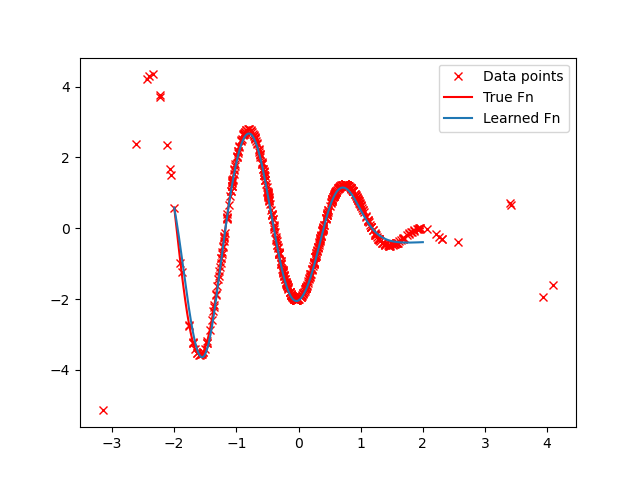
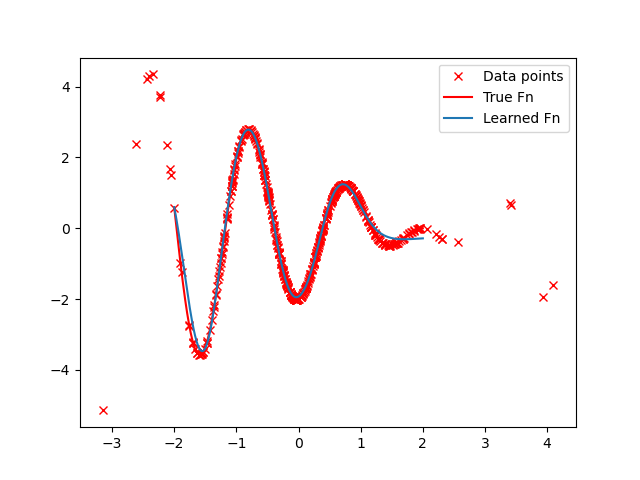
update

diff --git a/HW3/threelayerSGD.py b/HW3/threelayerSGD.py
@@ -18,19 +18,17 @@ N = 512
 def f_true(x) :
     return (x-2) * np.cos(x*4)
 
-def sig(x) :
-    return 1/(1+np.exp(-x))
-
 torch.manual_seed(0)
 X_train = torch.normal(0.0, 1.0, (N,))
 # P1
-# y_train = f_true(X_train)
+y_train = f_true(X_train)
 # P2
-y_train = f_true(X_train) + torch.normal(0, 0.5, X_train.shape)
+y_train_ = f_true(X_train) + torch.normal(0, 0.5, X_train.shape)
 X_val = torch.normal(0.0, 1.0, (N//5,))
 y_val = f_true(X_val)
 
-train_dataloader = DataLoader(TensorDataset(X_train.unsqueeze(1), y_train.unsqueeze(1)), batch_size=B)
+train_dataloader = DataLoader(TensorDataset(X_train.unsqueeze(1), y_train.unsqueeze(1)), batch_size=B, shuffle=True)
+train_dataloader_ = DataLoader(TensorDataset(X_train.unsqueeze(1), y_train_.unsqueeze(1)), batch_size=B, shuffle=True)
 test_dataloader = DataLoader(TensorDataset(X_val.unsqueeze(1), y_val.unsqueeze(1)), batch_size=B)
 
 '''
@@ -61,12 +59,6 @@ class MLP(nn.Module):
         x = self.layer3(x) # B*1
         return x
 
-def cal(tens):
-    a = list(tens.shape)
-    b = 1
-    for k in a:
-        b *= k
-    return b
 # Model initialization
 model = MLP()
 model.layer1.weight.data = torch.normal(0, 1, model.layer1.weight.shape)
@@ -75,34 +67,56 @@ model.layer2.weight.data = torch.normal(0, 1, model.layer2.weight.shape)
 model.layer2.bias.data = torch.full(model.layer2.bias.shape, 0.03)
 model.layer3.weight.data = torch.normal(0, 1, model.layer3.weight.shape)
 model.layer3.bias.data = torch.full(model.layer3.bias.shape, 0.03)
+model_ = MLP()
+model_.layer1.weight.data = torch.normal(0, 1, model_.layer1.weight.shape)
+model_.layer1.bias.data = torch.full(model_.layer1.bias.shape, 0.03)
+model_.layer2.weight.data = torch.normal(0, 1, model_.layer2.weight.shape)
+model_.layer2.bias.data = torch.full(model_.layer2.bias.shape, 0.03)
+model_.layer3.weight.data = torch.normal(0, 1, model_.layer3.weight.shape)
+model_.layer3.bias.data = torch.full(model_.layer3.bias.shape, 0.03)
 
-# model.to(device)
+model.to(device)
 loss_fn = nn.MSELoss()
 optimizer = optim.SGD(model.parameters(), lr=alpha)
+model_.to(device)
+loss_fn_ = nn.MSELoss()
+optimizer_ = optim.SGD(model_.parameters(), lr=alpha)
 s3 = time.time()
 print('Model Initialization :', s3-s2)
 # Train
 for epoch in range(K):
     for x, y in train_dataloader:
-        # x, y = x.to(device), y.to(device)
+        x, y = x.to(device), y.to(device)
 
         optimizer.zero_grad()
         train_loss = loss_fn(model(x), y)/2
         train_loss.backward()
 
         optimizer.step()
+
+    for x, y in train_dataloader_:
+        x, y = x.to(device), y.to(device)
+
+        optimizer_.zero_grad()
+        train_loss_ = loss_fn_(model_(x), y)/2
+        train_loss_.backward()
+
+        optimizer_.step()
 s4 = time.time()
 print('Training :',s4-s3)
 with torch.no_grad():
     xx = torch.linspace(-2,2,1024).unsqueeze(1)
-    # model.to('cpu')
-    plt.plot(X_train,y_train, 'rx',label='Data points')
+    model.to('cpu')
+    model_.to('cpu')
+    # plt.plot(X_train,y_train, 'rx',label='Data points')
     plt.plot(xx, f_true(xx), 'r',label='True Fn')
     plt.plot(xx, model(xx), label='Learned Fn')
+    plt.plot(xx, model_(xx), label='Learned Fn with noisy label')
 plt.legend()
 s5 = time.time()
 print('Plotting :', s5-s4)
 plt.show()
+
 
 '''
 When plotting torch tensors, you want to work with the

diff --git a/HW3/P5(c).py b/HW3/P5(c).py
@@ -1,0 +1,52 @@
+import torch
+import numpy as np
+
+L=5
+np.random.seed(80)
+n_list = np.random.randint(1,11, size=L)
+x = torch.tensor(np.random.randn(n_list[0]), dtype=torch.float)
+
+def sig(z):
+    return 1/(1+np.exp(-z))
+
+def tanh(z):
+    return (1-np.exp(-2*z))/(1+np.exp(-2*z))
+
+class MLP(torch.nn.Module):
+    def __init__(self, n_list, act_f):
+        super(MLP, self).__init__()
+        self._n_list = n_list
+        self.act_f = act_f
+        self.fc1 = torch.nn.Linear(self._n_list[0], self._n_list[1], bias=True)
+        self.fc2 = torch.nn.Linear(self._n_list[1], self._n_list[2], bias=True)
+        self.fc3 = torch.nn.Linear(self._n_list[2], self._n_list[3], bias=True)
+        self.fc4 = torch.nn.Linear(self._n_list[3], self._n_list[4], bias=True)
+
+    def forward(self, x):
+        if self.act_f == 'sig':
+            x = torch.sigmoid(self.fc1(x))
+            x = torch.sigmoid(self.fc2(x))
+            x = torch.sigmoid(self.fc3(x))
+            x = self.fc4(x)
+        elif self.act_f == 'tanh':
+            x = torch.tanh(self.fc1(x))
+            x = torch.tanh(self.fc2(x))
+            x = torch.tanh(self.fc3(x))
+            x = self.fc4(x)
+        return x
+
+sig_model = MLP(n_list, 'sig')
+tanh_model = MLP(n_list, 'tanh')
+
+tanh_model.fc1.weight.data = sig_model.fc1.weight.data/2
+tanh_model.fc1.bias.data = sig_model.fc1.bias.data/2
+tanh_model.fc2.weight.data = sig_model.fc2.weight.data/4
+tanh_model.fc2.bias.data = sig_model.fc2.bias.data/2 + sig_model.fc2.weight.data@torch.tensor([1 for i in range(n_list[1])],dtype=torch.float)/4
+tanh_model.fc3.weight.data = sig_model.fc3.weight.data/4
+tanh_model.fc3.bias.data = sig_model.fc3.bias.data/2 + sig_model.fc3.weight.data@torch.tensor([1 for i in range(n_list[2])],dtype=torch.float)/4
+tanh_model.fc4.weight.data = sig_model.fc4.weight.data/2
+tanh_model.fc4.bias.data = sig_model.fc4.bias.data + sig_model.fc4.weight.data@torch.tensor([1 for i in range(n_list[3])],dtype=torch.float)/2
+
+print(sig_model(x) == tanh_model(x))
+print(sig_model(x))
+print(tanh_model(x))
